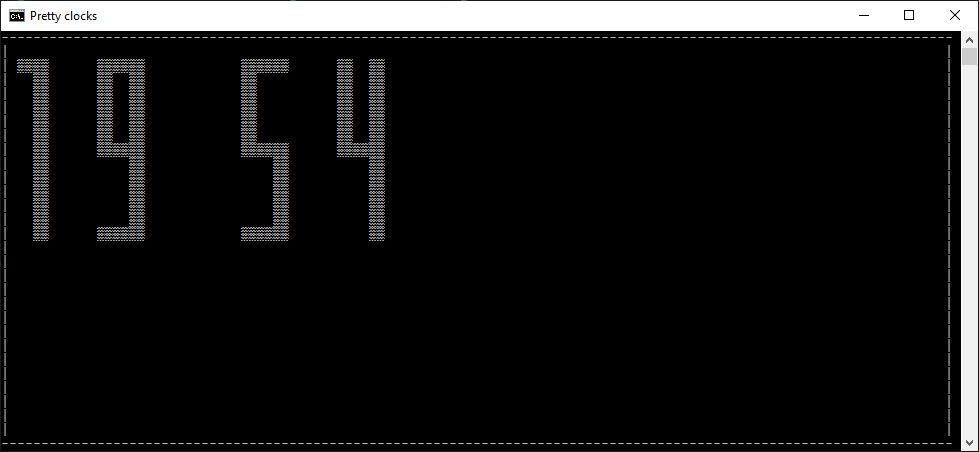
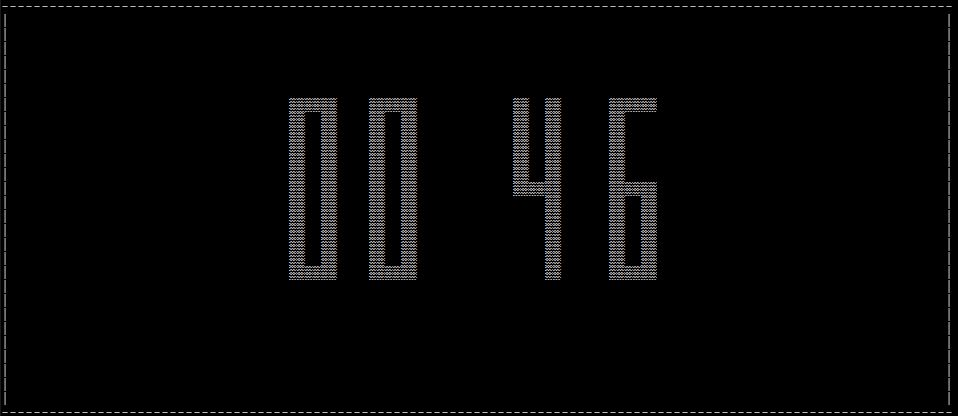
Clocks is centered.

diff --git a/src/time.c b/src/time.c
@@ -144,17 +144,21 @@ Angles getAngles()
 {
     Angles angles;
 
-    angles.hourFirstNumberAngle.X = 2;
-    angles.hourFirstNumberAngle.Y = 2;
+    ConsoleSize consoleSize = getSizeOfConsole();
+
+    angles.hourFirstNumberAngle.X = ((consoleSize.right / 2) / 2);
+    short x = (angles.hourFirstNumberAngle.X / 2) / 2;
+    angles.hourFirstNumberAngle.X += x;
+    angles.hourFirstNumberAngle.Y = (consoleSize.bottom / 2) - 7;
     
-    angles.hourSecondNumberAngle.X = 12;
-    angles.hourSecondNumberAngle.Y = 2;
+    angles.hourSecondNumberAngle.X = angles.hourFirstNumberAngle.X + 10;
+    angles.hourSecondNumberAngle.Y = angles.hourFirstNumberAngle.Y;
 
-    angles.minutesFirstNumberAngle.X = 30;
-    angles.minutesFirstNumberAngle.Y = 2;
+    angles.minutesFirstNumberAngle.X = 18 + angles.hourSecondNumberAngle.X;
+    angles.minutesFirstNumberAngle.Y = angles.hourFirstNumberAngle.Y;
 
-    angles.minutesSecondNumberAngle.X = 42;
-    angles.minutesSecondNumberAngle.Y = 2;
+    angles.minutesSecondNumberAngle.X = 12 + angles.minutesFirstNumberAngle.X;
+    angles.minutesSecondNumberAngle.Y = angles.hourFirstNumberAngle.Y;
 
     return angles;
 }
